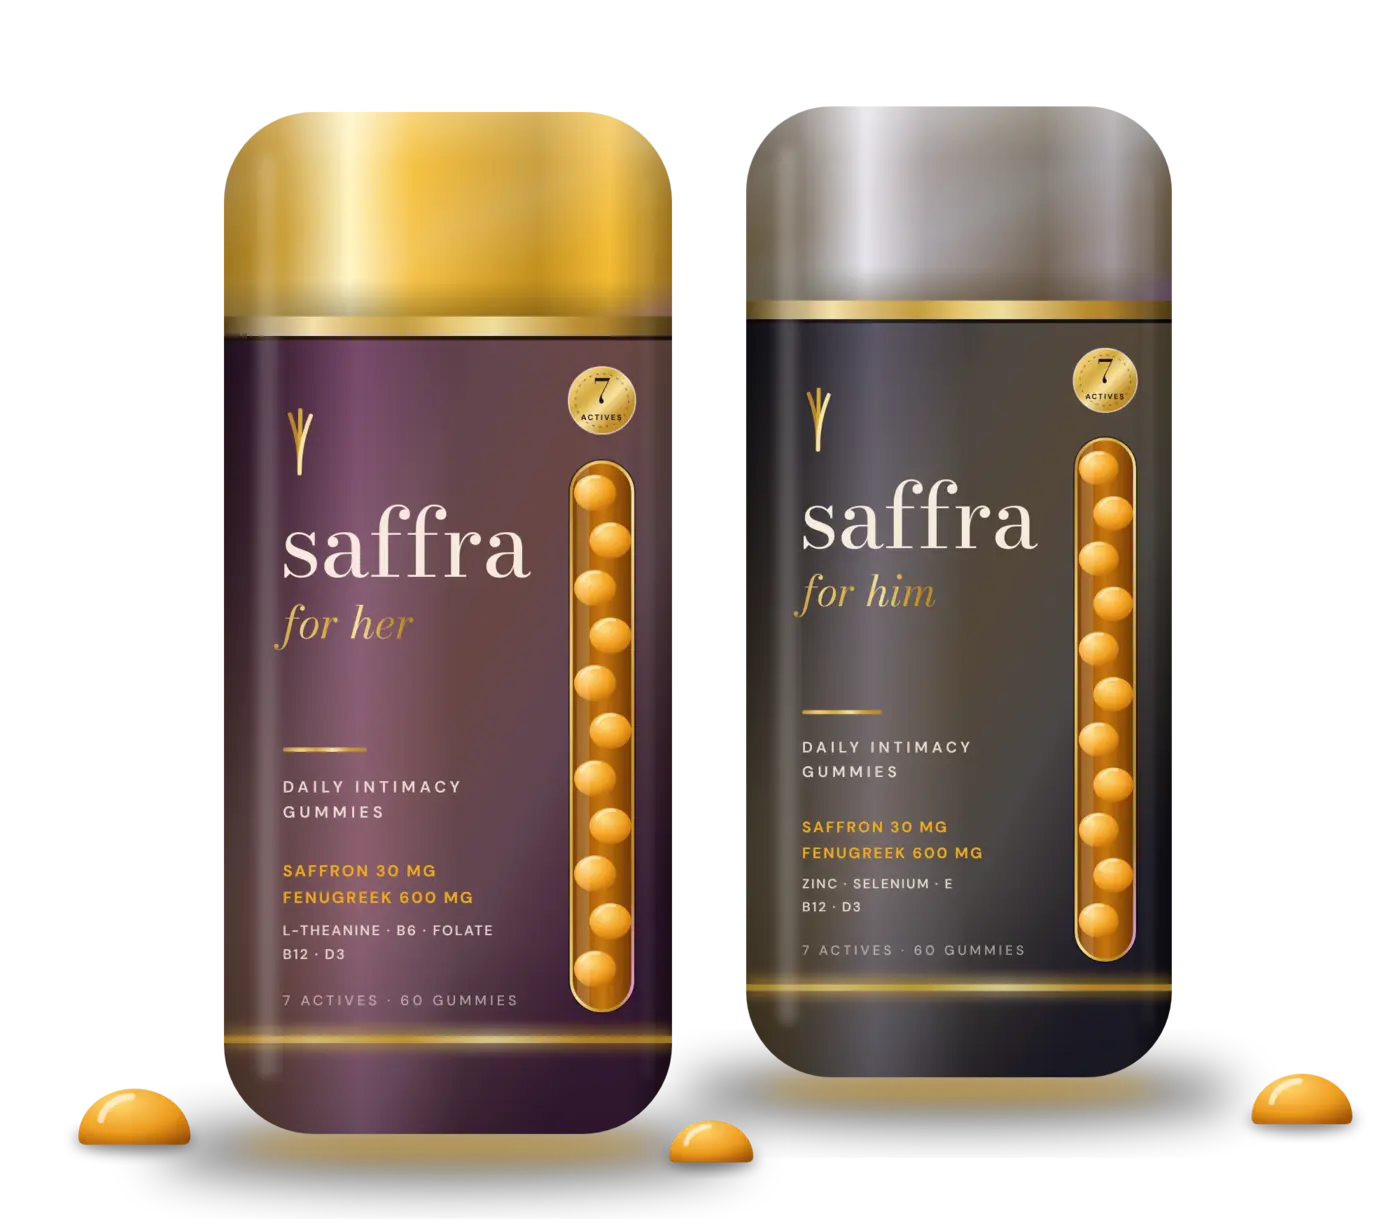
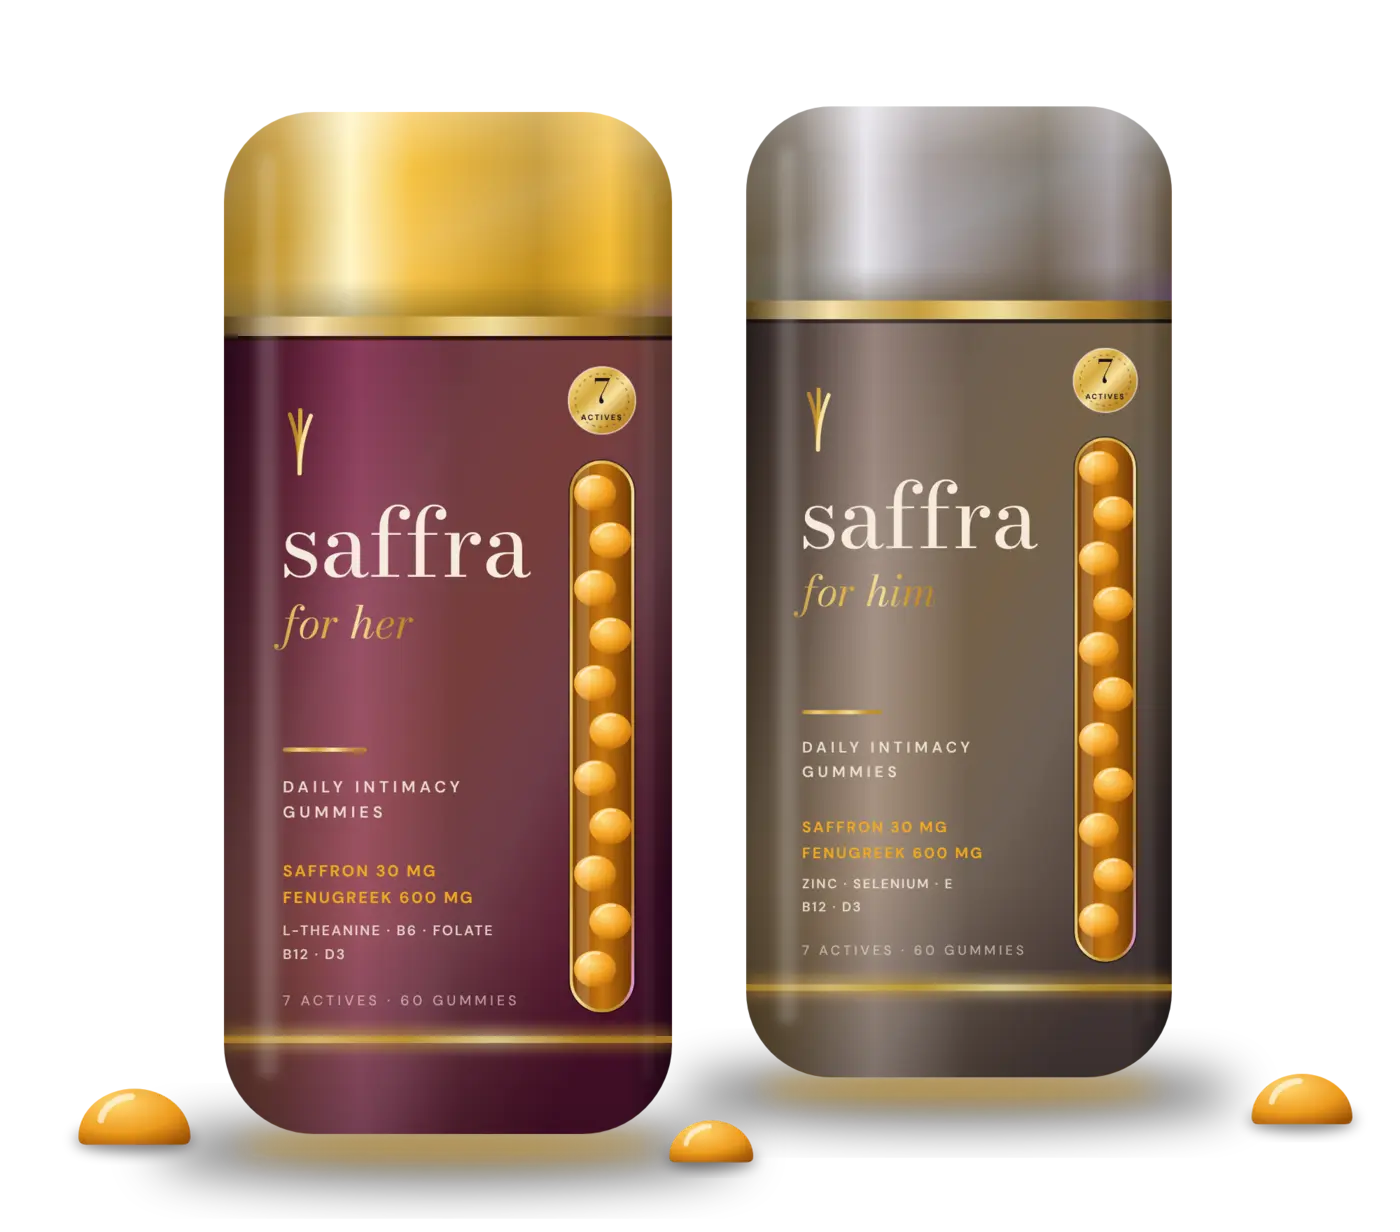
Jars, box and backdrops in the palette; For Him card and stage in Plum Truffle
Claude-Session: https://claude.ai/code/session_015dDce3uLSXqt7HekCjqUxV

Changed region(s): [[0.5221, 0.2468, 0.86, 0.8945]]

diff --git a/index.html b/index.html
@@ -120,7 +120,7 @@ section{padding:88px 0}
 .products{display:grid;grid-template-columns:1fr 1fr;gap:22px}
 .card{border-radius:var(--r);padding:28px;display:grid;grid-template-columns:150px 1fr;gap:22px;align-items:center;border:1px solid rgba(255,255,255,.09);position:relative;overflow:hidden}
 .card.her{background:radial-gradient(360px 280px at 0% 100%,rgba(240,169,30,.16),transparent 70%),var(--plum-2)}
-.card.him{background:radial-gradient(360px 280px at 0% 100%,rgba(120,116,160,.22),transparent 70%),#211a2c}
+.card.him{background:radial-gradient(360px 280px at 0% 100%,rgba(197,185,201,.18),transparent 70%),#57474f}
 .card .info{display:grid;gap:11px;align-content:start}
 .card h3 i{font-style:italic;color:var(--saffron)}
 .card ul{list-style:none;margin:0;padding:0;display:grid;gap:5px;font-size:15px}
@@ -203,7 +203,7 @@ body.menu-open .drawer{display:block}
 .pdp .top{display:grid;grid-template-columns:.9fr 1.1fr;gap:52px;align-items:start}
 .pdp .stage{border-radius:var(--r);padding:36px 60px 18px;position:sticky;top:96px}
 .pdp .stage.her{background:radial-gradient(circle at 50% 40%,#d9cfdc,#c5b9c9 75%)}
-.pdp .stage.him{background:radial-gradient(circle at 50% 40%,#4a4664,#211e30 75%)}
+.pdp .stage.him{background:radial-gradient(circle at 50% 40%,#8b7978,#4b3d3c 75%)}
 .pdp .buy{display:grid;gap:18px}
 .pdp h1{font-size:clamp(40px,6vw,68px)}
 .pdp h1 i{font-style:italic;color:var(--saffron)}
@@ -2350,7 +2350,7 @@ body.searching .srch{display:block}body.searching{overflow:hidden}
         <h3>Packaging</h3>
         <img src="img/duo-dark.jpg" width="1600" height="1200" alt="Rendering of the For Her and For Him jars" style="border-radius:var(--r)">
         <img src="img/set.jpg" width="1600" height="1200" alt="Rendering of the For Two gift box with both jars" style="border-radius:var(--r)" loading="lazy">
-        <p class="muted">One seamless capsule shape with no paper label. For Her: matte plum with a gold cap. For Him: graphite with a steel cap. Type is printed on the jar, a side window shows the gummies, and gold foil marks the cap seam, the base line, the logo and a small 7-actives seal. Doses sit on the front of both. The For Two box is matte plum with the wordmark in gold foil.</p>
+        <p class="muted">One seamless capsule shape with no paper label. For Her: Soul Anchor wine with a gold cap. For Him: Plum Truffle with a steel cap. Type is printed on the jar, a side window shows the gummies, and gold foil marks the cap seam, the base line, the logo and a small 7-actives seal. Doses sit on the front of both. The For Two box is Soul Anchor wine with the wordmark in gold foil.</p>
       </div>
       <div>
         <h3 style="margin-bottom:14px">Color</h3>

diff --git a/sw.js b/sw.js
@@ -1,4 +1,4 @@
-const C='saffra-v5';
+const C='saffra-v6';
 const PRE=['./','index.html','manifest.webmanifest','fonts/bodoni-moda-latin-wght-normal.woff2','fonts/bodoni-moda-latin-wght-italic.woff2','fonts/dm-sans-latin-wght-normal.woff2','img/icon-180.png','img/icon-192.png','img/icon-512.png','img/bottle-her.webp','img/bottle-him.webp','img/duo.webp'];
 self.addEventListener('install',e=>{self.skipWaiting();e.waitUntil(caches.open(C).then(c=>c.addAll(PRE)).catch(()=>{}));});
 self.addEventListener('activate',e=>{e.waitUntil(caches.keys().then(k=>Promise.all(k.filter(x=>x!==C).map(x=>caches.delete(x)))).then(()=>self.clients.claim()));});
